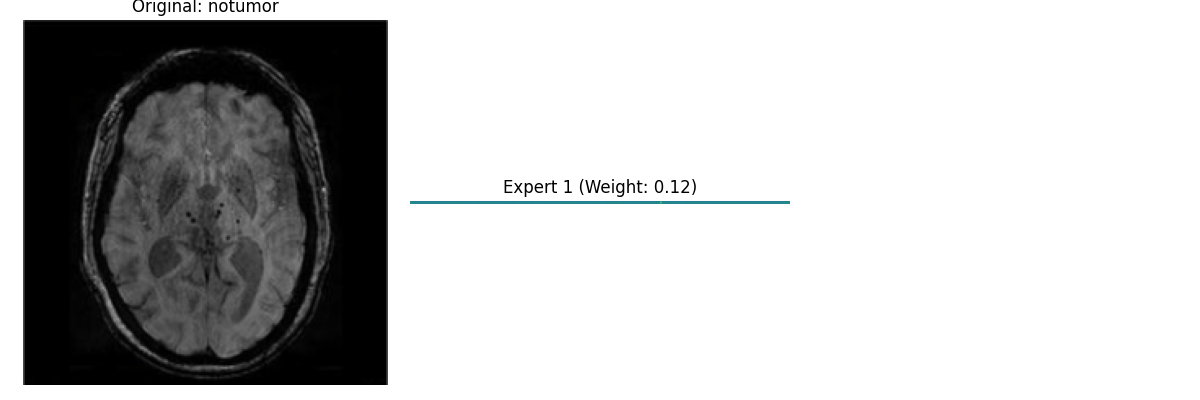
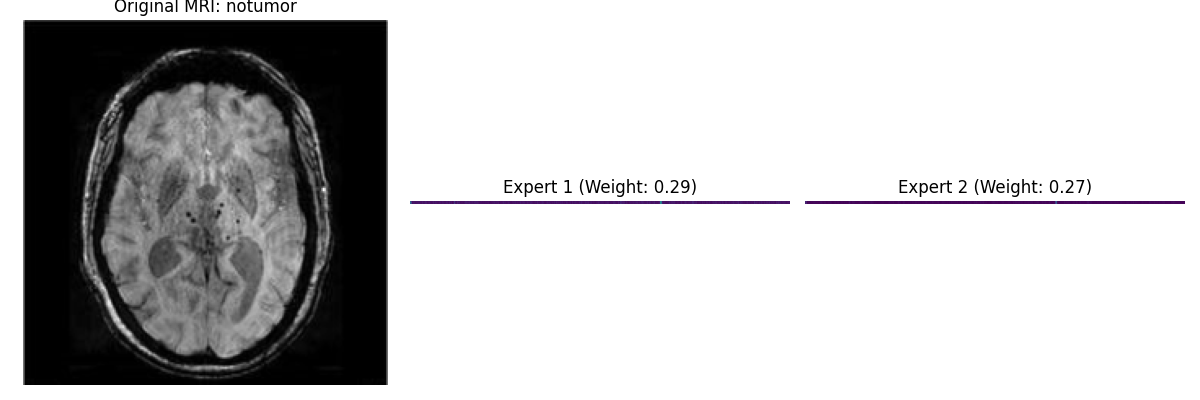
Gray scale image contrast stretch using automatic method added

diff --git a/mri-classification.py b/mri-classification.py
@@ -16,6 +16,99 @@ import pandas as pd
 import seaborn as sns
 from sklearn.metrics import confusion_matrix
 from tqdm import tqdm
+import torchvision.transforms.functional as TF
+
+def set_seed(seed: Optional[int] = 42) -> None:
+    """Set all random seeds for reproducibility"""
+    if seed is not None:
+        random.seed(seed)
+        np.random.seed(seed)
+        torch.manual_seed(seed)
+        torch.cuda.manual_seed_all(seed)
+        torch.backends.cudnn.deterministic = True
+        torch.backends.cudnn.benchmark = False
+        os.environ['PYTHONHASHSEED'] = str(seed)
+class AutomaticBrightnessAndContrast(torch.nn.Module):
+    """Transform to automatically adjust brightness and contrast of images."""
+    
+    def __init__(self, clip_hist_percent=1):
+        super().__init__()
+        self.clip_hist_percent = clip_hist_percent
+    
+    def forward(self, image_tensor):
+        """
+        Apply automatic brightness and contrast adjustment to an image tensor.
+        
+        Args:
+            image_tensor (torch.Tensor): Image tensor of shape [C, H, W] in [0,1] range
+            
+        Returns:
+            torch.Tensor: Adjusted image tensor in same range as input
+        """
+        
+        image = image_tensor.clone()
+        
+        # Check if image is in [0,1] range (standard for ToTensor output)
+        is_normalized = image.max() <= 1.0
+        
+        # Scale to [0,255] range for histogram calculation
+        if is_normalized:
+            image_for_hist = image * 255.0
+        else:
+            image_for_hist = image
+        
+        # Convert image tensor to grayscale if it's RGB
+        if image_for_hist.shape[0] == 3:  # If RGB (C, H, W format)
+            # Convert to grayscale using RGB weights
+            gray = 0.299 * image_for_hist[0] + 0.587 * image_for_hist[1] + 0.114 * image_for_hist[2]
+        else:
+            gray = image_for_hist.squeeze()  # If already grayscale
+        
+        # Calculate histogram
+        hist = torch.histc(gray.flatten(), bins=256, min=0, max=255)
+        hist_size = len(hist)
+        
+        # Calculate cumulative distribution
+        accumulator = torch.cumsum(hist, dim=0)
+        
+        # Locate points to clip
+        maximum = accumulator[-1].item()
+        clip_value = self.clip_hist_percent * (maximum / 100.0) / 2.0
+        
+        # Locate left cut
+        minimum_gray = 0
+        while minimum_gray < hist_size and accumulator[minimum_gray].item() < clip_value:
+            minimum_gray += 1
+        
+        # Locate right cut
+        maximum_gray = hist_size - 1
+        while maximum_gray >= 0 and accumulator[maximum_gray].item() >= (maximum - clip_value):
+            maximum_gray -= 1
+        
+        # Prevent division by zero
+        if maximum_gray <= minimum_gray:
+            # No adjustment needed or possible
+            return image_tensor
+        
+        # Calculate alpha and beta values
+        alpha = 255.0 / (maximum_gray - minimum_gray)
+        beta = -minimum_gray * alpha
+        
+        # Apply contrast stretching based on original image range
+        if is_normalized:
+            # For [0,1] range images (from ToTensor)
+            alpha_norm = alpha / 255.0
+            beta_norm = beta / 255.0
+            auto_result = image * alpha_norm + beta_norm
+            # Clamp values to [0, 1] range
+            auto_result = torch.clamp(auto_result, 0, 1)
+        else:
+            # For [0,255] range images
+            auto_result = image * alpha + beta
+            # Clamp values to [0, 255] range
+            auto_result = torch.clamp(auto_result, 0, 255)
+        
+        return auto_result
 
 class VisualizationTracker:
     """Tracks and visualizes training metrics, confusion matrices, and expert activations."""
@@ -147,19 +240,33 @@ class VisualizationTracker:
         plt.savefig(f'visualizations/expert_activations.png')
         plt.close()
 
-# Function to create activation maps from the model
 def generate_activation_maps(model, sample_images, device, class_names, save_dir='visualizations'):
-    """Generate activation maps showing what each expert focuses on."""
+    """Generate activation maps showing what each expert focuses on for MRI images."""
     os.makedirs(save_dir, exist_ok=True)
+    
+    # ImageNet normalization parameters that were applied
+    mean = np.array([0.485, 0.456, 0.406])
+    std = np.array([0.229, 0.224, 0.225])
     
     model.eval()
     with torch.no_grad():
         for idx, (image, label) in enumerate(sample_images):
-            # Ensure image is on the right device and has batch dimension
-            image = image.unsqueeze(0).to(device)
+            
+            # For MRI images: Since all 3 channels are identical (replicated grayscale),
+            # we can just take one channel and denormalize it
+            img_np = image[0].cpu().numpy()  # Take first channel
+            
+            # Undo the normalization for this channel
+            denorm_img = img_np * std[0] + mean[0]
+            
+            # Ensure values are in valid range for display
+            denorm_img = np.clip(denorm_img, 0, 1)
+            
+            # Ensure image is on the right device and has batch dimension for model
+            model_input = image.unsqueeze(0).to(device)
             
             # Get backbone features
-            features = model.backbone(image)[0]
+            features = model.backbone(model_input)[0]
             
             # Get expert weights
             expert_weights = model.gate(features, False)
@@ -179,25 +286,18 @@ def generate_activation_maps(model, sample_images, device, class_names, save_dir
                 
                 expert_outputs.append(activation)
             
-            # Original image (convert from tensor with normalization)
-            orig_img = image.squeeze().cpu().permute(1, 2, 0).numpy()
-            mean = np.array([0.485, 0.456, 0.406])
-            std = np.array([0.229, 0.224, 0.225])
-            orig_img = std * orig_img + mean
-            orig_img = np.clip(orig_img, 0, 1)
-            
             # Plot
             class_name = class_names[label]
             plt.figure(figsize=(12, 4))
             
-            # Original image
+            # Original MRI image - display as grayscale
             plt.subplot(1, 3, 1)
-            plt.imshow(orig_img)
-            plt.title(f'Original: {class_name}')
+            plt.imshow(denorm_img, cmap='gray')
+            plt.title(f'Original MRI: {class_name}')
             plt.axis('off')
             
             # Expert activations
-            for i in range(min(1, len(expert_outputs))):
+            for i in range(min(2, len(expert_outputs))):
                 plt.subplot(1, 3, i+2)
                 plt.imshow(expert_outputs[i], cmap='viridis')
                 plt.title(f'Expert {i+1} (Weight: {expert_weights[i]:.2f})')
@@ -207,16 +307,6 @@ def generate_activation_maps(model, sample_images, device, class_names, save_dir
             plt.savefig(f'{save_dir}/activation_map_sample_{idx}_{class_name}.png')
             plt.close()
 
-def set_seed(seed: Optional[int] = 42) -> None:
-    """Set all random seeds for reproducibility"""
-    if seed is not None:
-        random.seed(seed)
-        np.random.seed(seed)
-        torch.manual_seed(seed)
-        torch.cuda.manual_seed_all(seed)
-        torch.backends.cudnn.deterministic = True
-        torch.backends.cudnn.benchmark = False
-        os.environ['PYTHONHASHSEED'] = str(seed)
 
 class Expert(nn.Module):
     """Enhanced expert with residual connections and Swish activation"""
@@ -401,7 +491,8 @@ def train_epoch(model, loader, optimizer, scheduler, num_classes, device):
     total = 0
     all_preds = []
     all_labels = []
-    focal_loss = FocalLoss()
+    main_loss = FocalLoss()
+    main_loss = torch.nn.CrossEntropyLoss(label_smoothing=0.1)
     
     for inputs, targets in tqdm(loader, desc='Training'):
         inputs, targets = inputs.to(device), targets.to(device)
@@ -410,7 +501,7 @@ def train_epoch(model, loader, optimizer, scheduler, num_classes, device):
         outputs, aux_losses = model(inputs, targets, num_classes, return_losses=True)
         
         # Focal loss with label smoothing - Good for imbalanced classes.
-        task_loss = focal_loss(outputs, targets)
+        task_loss = main_loss(outputs, targets)
         
         # Combine losses
         loss = task_loss + aux_losses['balance_loss'] + aux_losses['specialization_loss']
@@ -535,13 +626,14 @@ def main():
     batch_size = 32  
     device = torch.device('cuda' if torch.cuda.is_available() else 'cpu')
     print(f'Using device: {device}')
-    
+    # mean and std are from imagenet
     # Data augmentation and normalization for training
     transform_train = transforms.Compose([
         transforms.ToPILImage(),
         transforms.Resize((224,224)),
         transforms.RandomHorizontalFlip(),
         transforms.ToTensor(),
+        AutomaticBrightnessAndContrast(clip_hist_percent=1),
         transforms.Normalize(mean=[0.485, 0.456, 0.406], std=[0.229, 0.224, 0.225])
     ])
     # Normalize only for testing
@@ -549,6 +641,7 @@ def main():
         transforms.ToPILImage(),
         transforms.Resize((224,224)),
         transforms.ToTensor(),
+        AutomaticBrightnessAndContrast(clip_hist_percent=1),
         transforms.Normalize(mean=[0.485, 0.456, 0.406], std=[0.229, 0.224, 0.225])
     ])
 
@@ -672,7 +765,7 @@ def main():
                 best_accuracy = test_metrics['accuracy']
                 torch.save(model.state_dict(), 'best_model.pth')
                 print(f'New best model saved with accuracy: {best_accuracy:.3f}%')
-        
+            
     print(f'Training completed. Best Test Accuracy: {best_accuracy:.3f}%')
 
 
